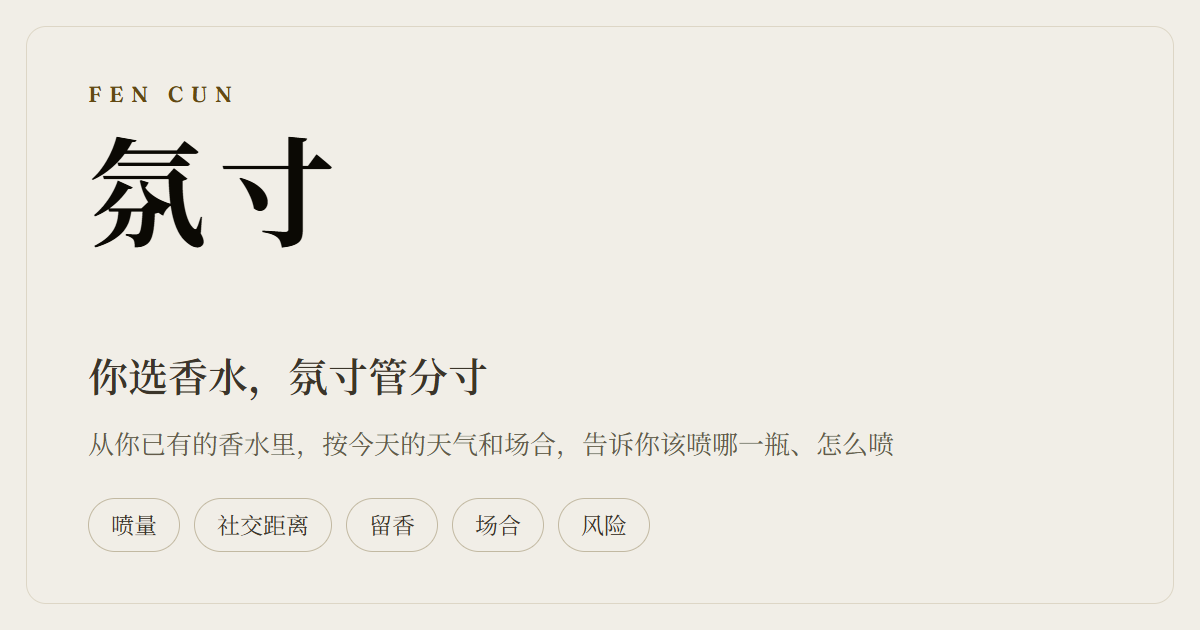
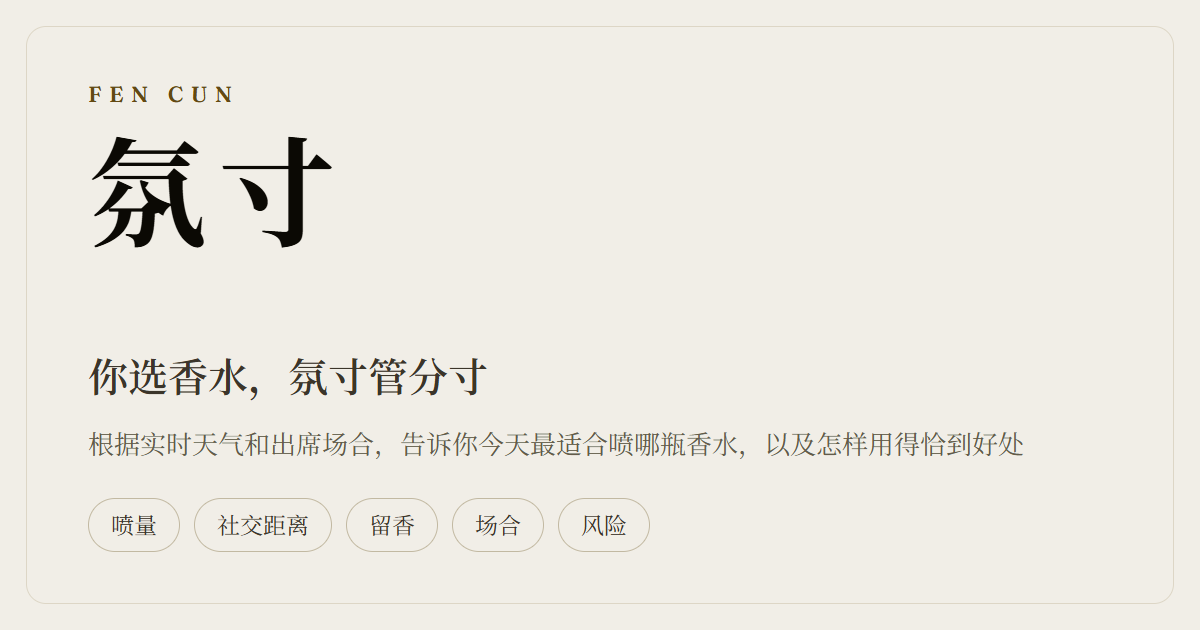
polish(brand): 站点定位句改用作者定稿
「氛寸（Fēn Cùn）——根据实时天气和出席场合，告诉你今天最适合喷哪瓶香水，
以及怎样用得恰到好处。」

上一版把「实时」与「体感」当机制交代删了，代价是分享卡上丢掉了与导购类产品的
分界点。定稿把「实时天气」放了回来，并换成「出席场合」这个更具体的说法。

三处同步：layout 的 metadata（meta description / og / twitter 共用）、
manifest 的 description、og.mjs 卡面正文。分享卡实测一行放得下、未换行未溢出。
「从你已有的香水里」这层意思由卡面主标「你选香水，氛寸管分寸」承担。

Changed region(s): [[0.0617, 0.6635, 0.8633, 0.7238]]

diff --git a/src/app/layout.tsx b/src/app/layout.tsx
@@ -35,7 +35,7 @@ export const SITE_URL = process.env.NEXT_PUBLIC_SITE_URL
 
 const TITLE = "氛寸 · 帮你用好香水";
 const DESCRIPTION =
-  "氛寸（Fēn Cùn）——按今天的天气和场合，从你已有的香水里告诉你该喷哪一瓶、怎么喷得恰到好处。";
+  "氛寸（Fēn Cùn）——根据实时天气和出席场合，告诉你今天最适合喷哪瓶香水，以及怎样用得恰到好处。";
 
 export const metadata: Metadata = {
   // metadataBase 必须给：没有它，openGraph.images 的相对路径不会被补成绝对 URL，

diff --git a/src/app/manifest.ts b/src/app/manifest.ts
@@ -8,7 +8,7 @@ export default function manifest(): MetadataRoute.Manifest {
     name: "氛寸 · 帮你用好香水",
     short_name: "氛寸",
     description:
-      "按今天的天气和场合，从你已有的香水里告诉你该喷哪一瓶、怎么喷得恰到好处。",
+      "根据实时天气和出席场合，告诉你今天最适合喷哪瓶香水，以及怎样用得恰到好处。",
     lang: "zh-CN",
     start_url: "/",
     display: "standalone",
